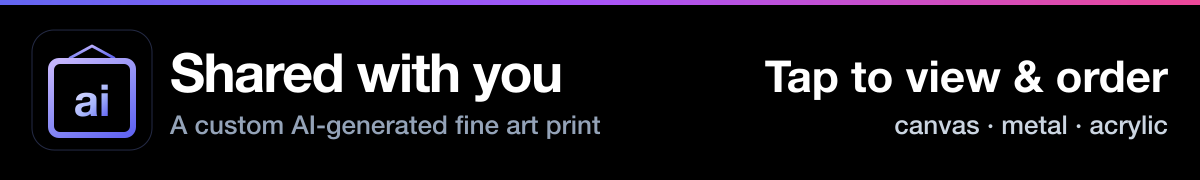
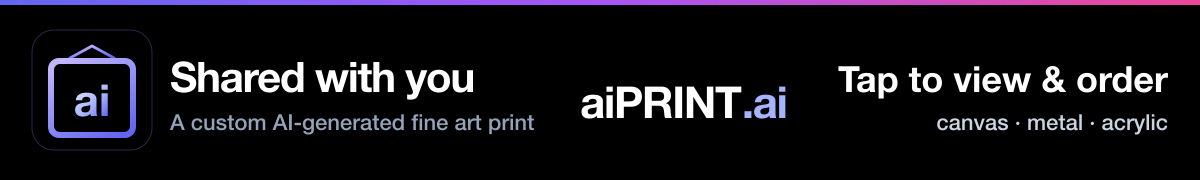
redesign(og-share): restore centered aiPRINT.ai wordmark + collapse iMessage strip to one line
Strip now has three zones at the same 180px height:
  Left:   Shared with you + A custom AI-generated fine art print
  Center: aiPRINT.ai wordmark (restored)
  Right:  Tap to view & order + canvas · metal · acrylic

Side font sizes shrunk (54->42 headline, 44->36 CTA, 26->22 subs) to carve
out horizontal room for the center wordmark without extending the black band.

Also removed <title> and og:site_name from the HTML stub. Both were sources
iMessage used to render a bold title line above its domain line, producing
aiprint.ai / aiprint.ai duplication. With every title source absent,
iMessage falls back to hostname only — a single aiprint.ai line.

Changed region(s): [[0.1233, 0.2778, 0.9867, 0.7778], [0.74, 0.6389, 0.9867, 0.7778]]

diff --git a/api/s.js b/api/s.js
@@ -39,15 +39,14 @@ function renderStub({ slug, imageUrl, canonicalUrl, imgW, imgH }) {
 <meta charset="utf-8" />
 <meta name="viewport" content="width=device-width,initial-scale=1" />
 <meta name="theme-color" content="#000000" />
-<!-- <title> matches the hostname exactly (lowercase) so iMessage's
-     LPLinkPresentation collapses its bold-title-line and domain-line into
-     a single line. Without this, iMessage falls back to <title> when
-     og:title is missing and you get the same text shown twice. -->
-<title>aiprint.ai</title>
+<!-- NO <title>, NO og:title, NO og:site_name. These are all possible
+     sources iMessage/LPLinkPresentation will use for the bold "title" line
+     above the domain. With every source absent, iMessage is forced to use
+     only the hostname, collapsing the metadata block to a single "aiprint.ai"
+     line instead of showing it as both title AND domain. -->
 <link rel="canonical" href="${safeCanonical}" />
-<!-- Open Graph: image-only card; title/description intentionally omitted -->
+<!-- Open Graph: image-only card; title/description/site_name intentionally omitted -->
 <meta property="og:type" content="website" />
-<meta property="og:site_name" content="aiPRINT.ai" />
 <meta property="og:url" content="${safeCanonical}" />
 <meta property="og:image" content="${safeImg}" />
 <meta property="og:image:type" content="image/jpeg" />
